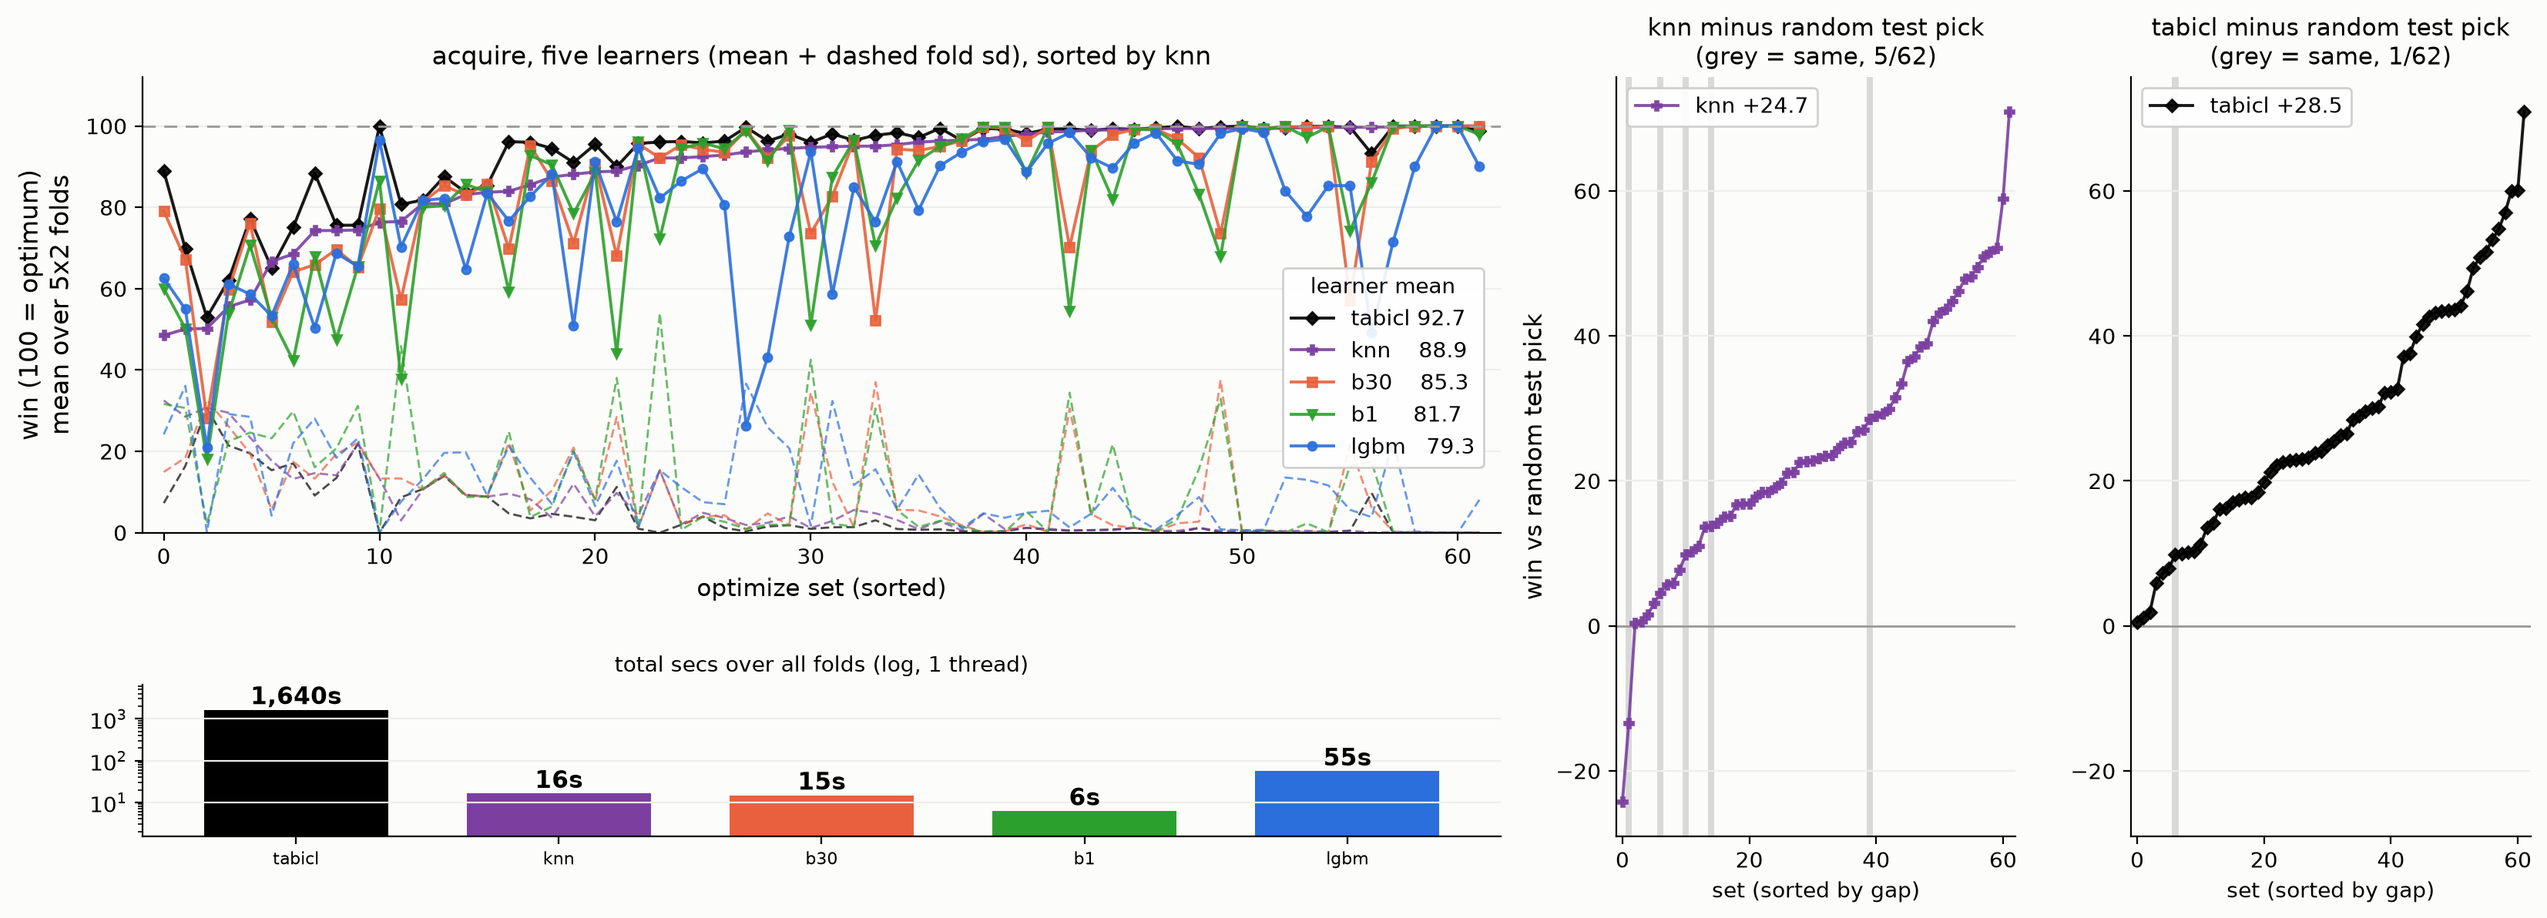
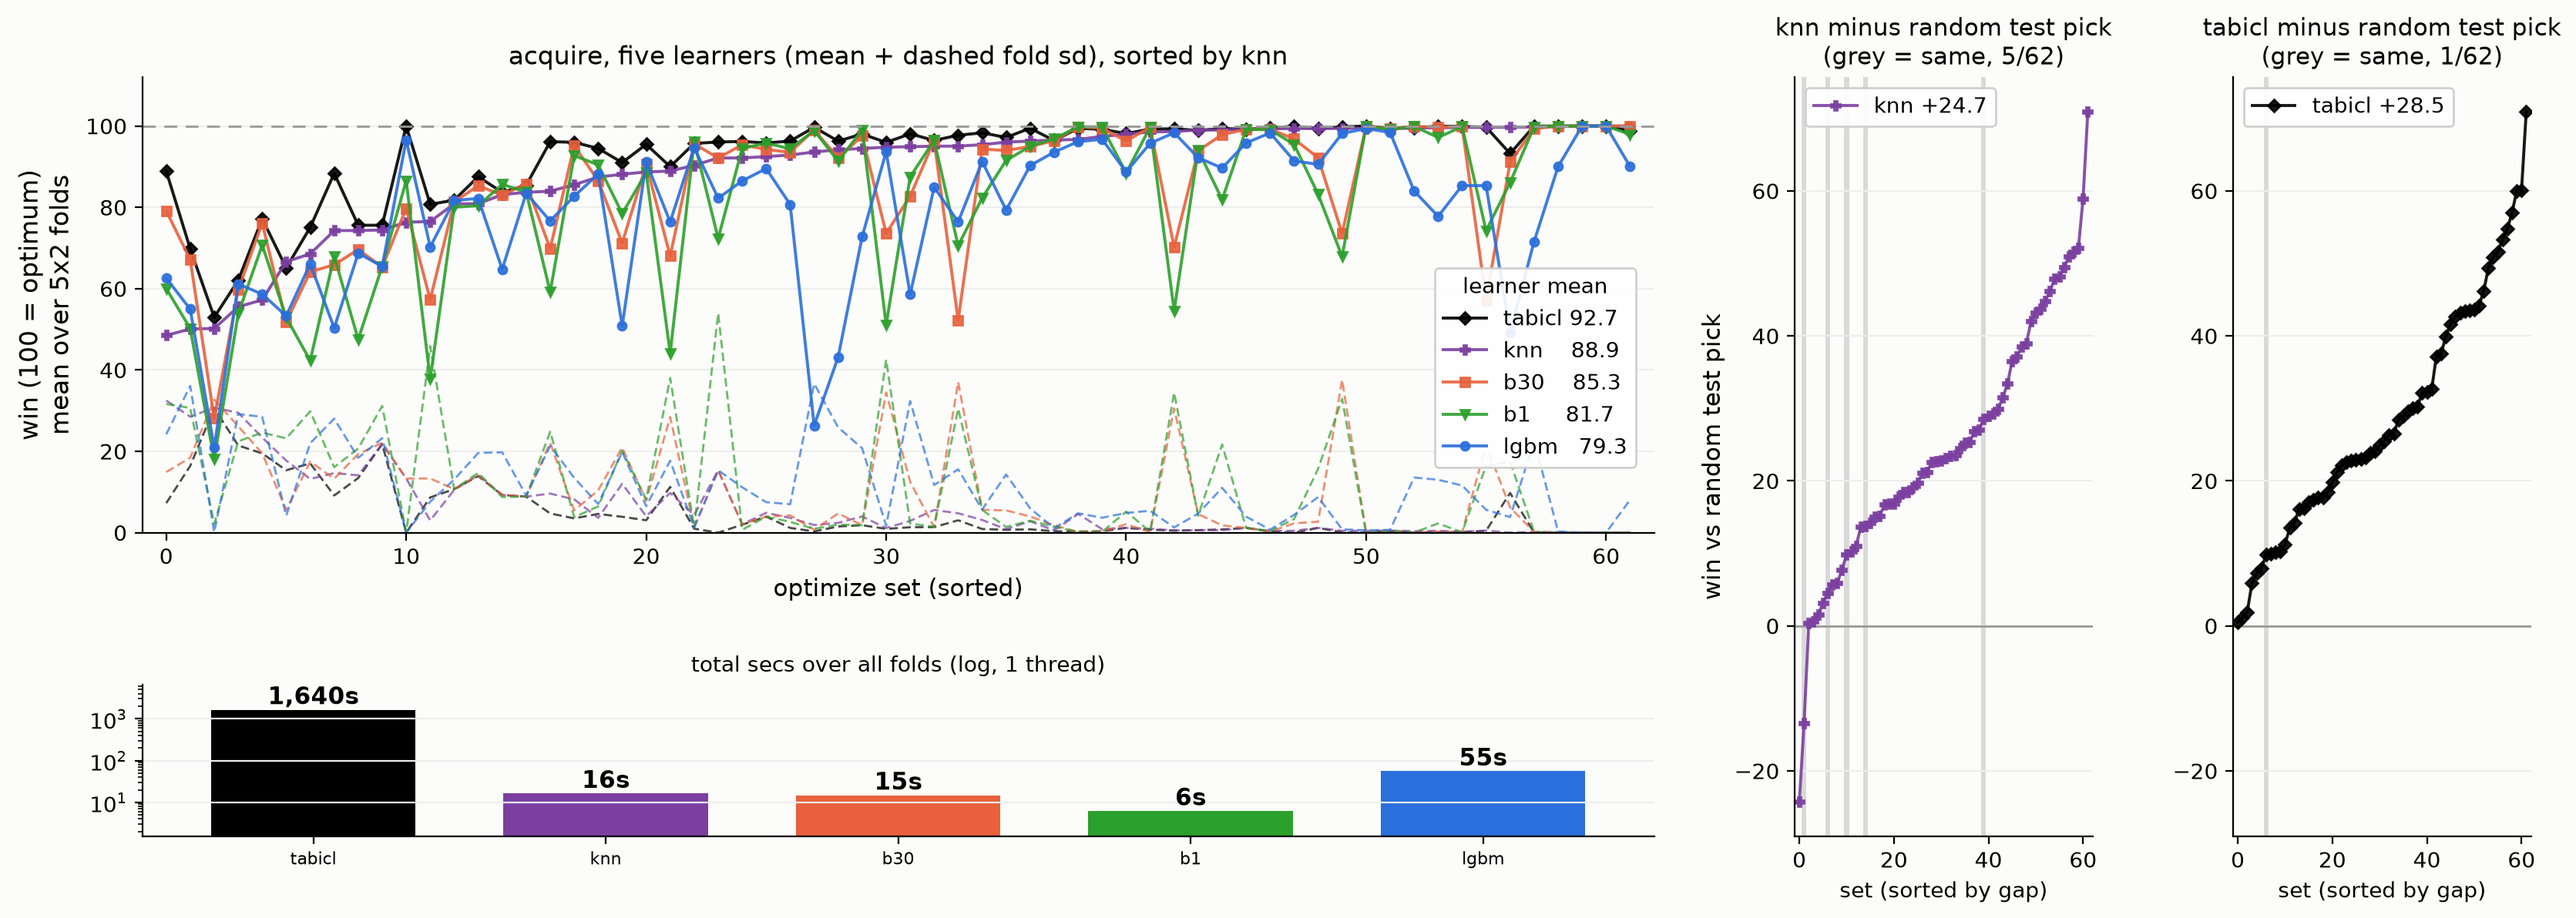
active figure: delta panels a third thinner

diff --git a/active_plot.py b/active_plot.py
@@ -65,7 +65,7 @@ grand = {a: st.fmean([mu[(s, a)] for s in sets if (s, a) in mu])
          for a in {a for _, a in F}}
 
 fig = plt.figure(figsize=(20, 6.4))
-gs = fig.add_gridspec(1, 3, width_ratios=[3.4, 1, 1], wspace=.16)
+gs = fig.add_gridspec(1, 3, width_ratios=[3.4, .67, .67], wspace=.2)
 lgs = gs[0].subgridspec(2, 1, height_ratios=[3, 1], hspace=.5)
 
 # -- left: five acquire learners, sorted by tabicl, legend by mean ------
